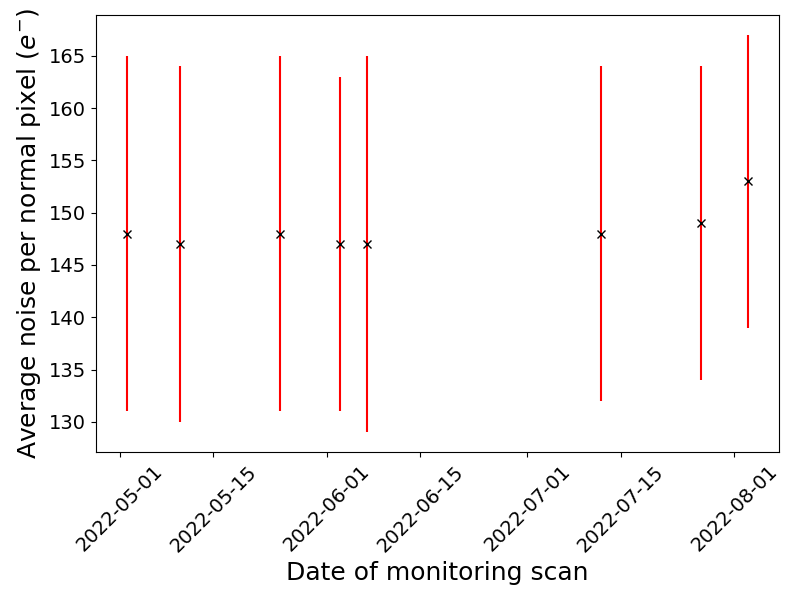
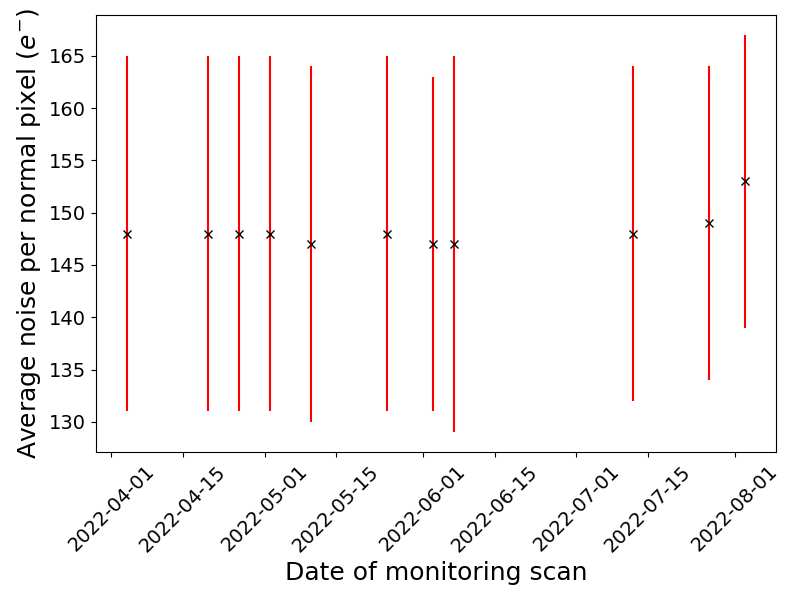
add more data

diff --git a/22_08_03_monitor_thr/plot_thr.py b/22_08_03_monitor_thr/plot_thr.py
@@ -14,7 +14,12 @@ def get_data():
         datetime(2022,6,3):  {"thr":{"mean":1484, "std":16}, "tot":{"mean":10.33, "std":0.04}, "noise":{"mean":147, "std":16}},
         datetime(2022,5,25): {"thr":{"mean":1481, "std":15}, "tot":{"mean":10.32, "std":0.04}, "noise":{"mean":148, "std":17}},
         datetime(2022,5,10): {"thr":{"mean":1482, "std":16}, "tot":{"mean":10.3, "std":0.04}, "noise":{"mean":147, "std":17}},
-        datetime(2022,5,2):  {"thr":{"mean":1487, "std":15}, "tot":{"mean":10.28, "std":0.04}, "noise":{"mean":148, "std":17}}
+        datetime(2022,5,2):  {"thr":{"mean":1487, "std":15}, "tot":{"mean":10.28, "std":0.04}, "noise":{"mean":148, "std":17}},
+        datetime(2022,4,26): {"thr":{"mean":1489, "std":14}, "tot":{"mean":10.27, "std":0.04}, "noise":{"mean":148, "std":17}},
+        datetime(2022,4,20): {"thr":{"mean":1495, "std":13}, "tot":{"mean":10.24, "std":0.04}, "noise":{"mean":148, "std":17}},
+        datetime(2022,4,4):  {"thr":{"mean":1504, "std":11}, "tot":{"mean":10.17, "std":0.03}, "noise":{"mean":148, "std":17}},
+        #datetime(2021,10,13):{"thr":{"mean":1522, "std":15}, "tot":{"mean":10.03, "std":0.03}, "noise":{"mean":148, "std":18}},
+        #datetime(2018,12,6): {"thr":{"mean":2022, "std":70}, "tot":{"mean":, "std":}, "noise":{"mean":144, "std":13}},
     }
 
     return data
